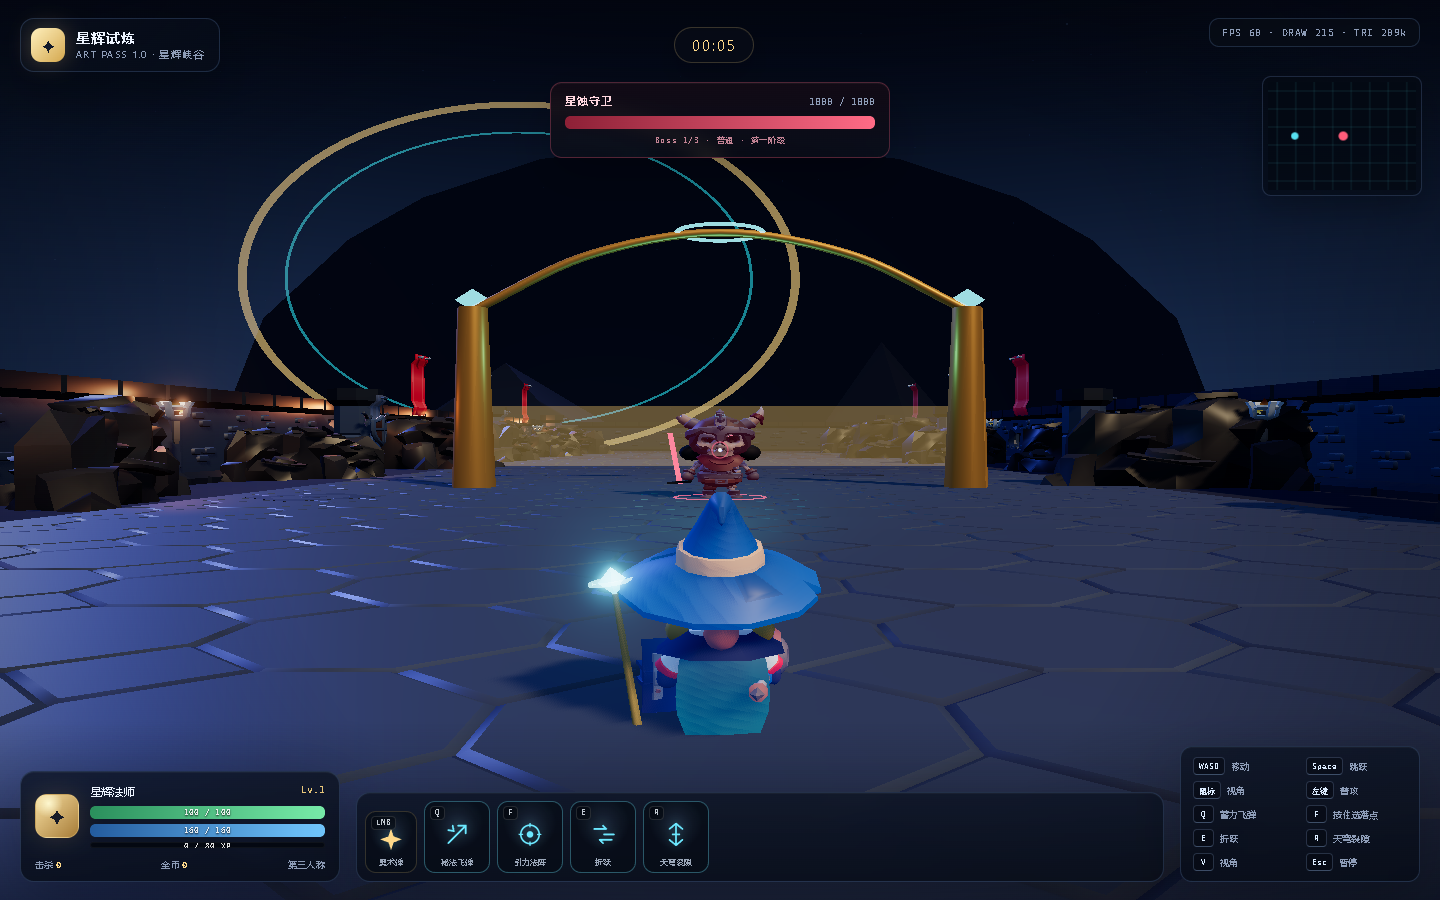
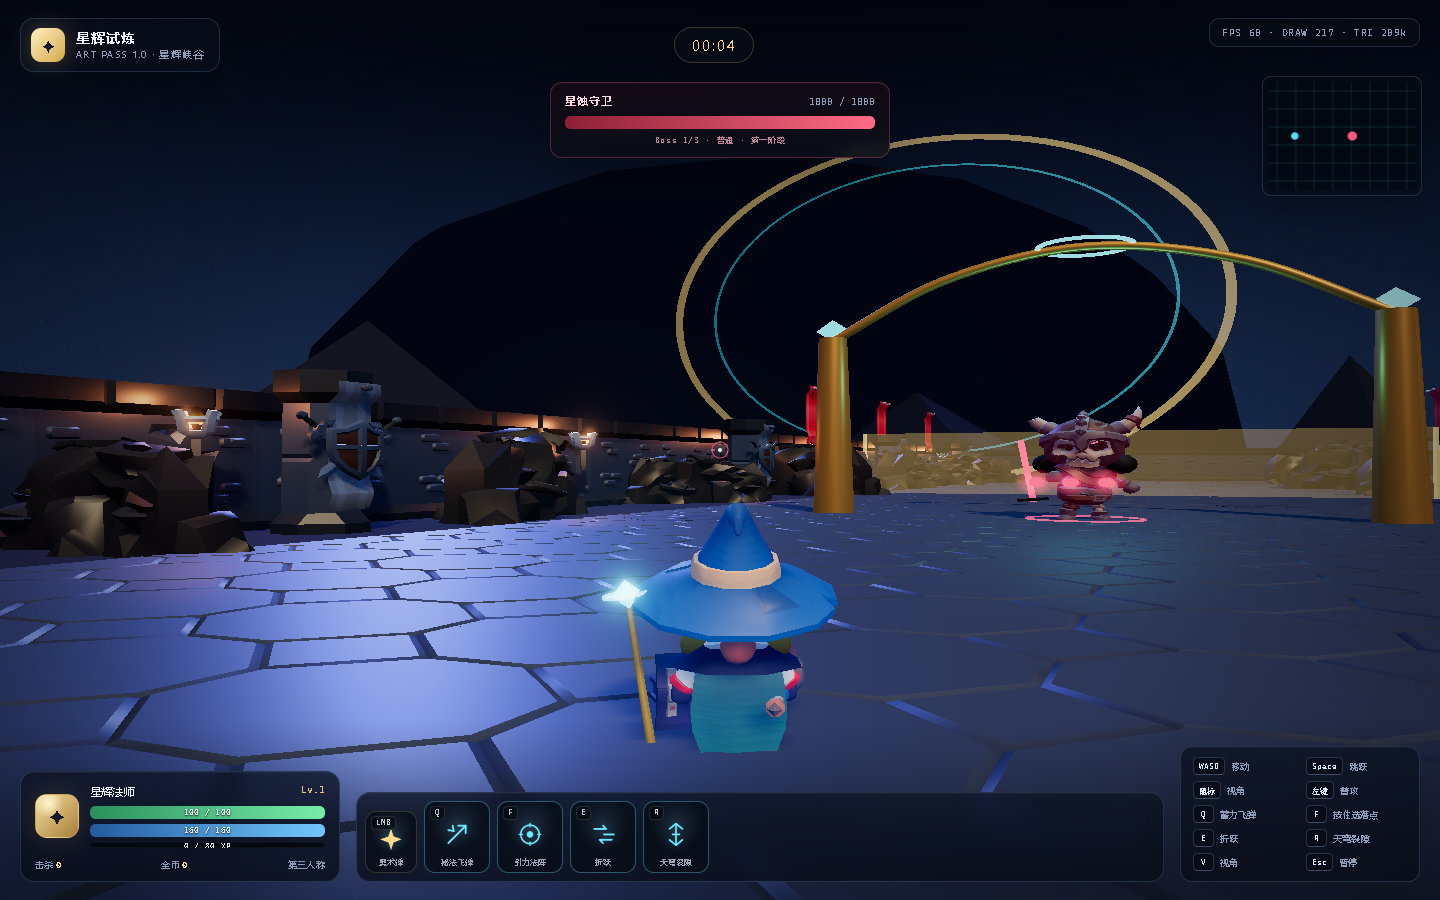
feat(art): scale up bosses and add combat animations

diff --git a/src/game/Game.ts b/src/game/Game.ts
@@ -109,6 +109,8 @@ export class Game {
   private input!: InputController;
   private mageActionLock = 0;
   private enemyActionLock = 0;
+  private readonly lastEnemyPosition = new THREE.Vector3();
+  private enemyShotCount = 0;
   private isMoving = false;
 
   private viewmodel!: THREE.Group;
@@ -402,6 +404,7 @@ export class Game {
       spawns.dummySpawn.z,
     );
     this.scene.add(this.enemyView.root);
+    this.lastEnemyPosition.copy(this.dummy.position);
 
     this.projectiles = new ProjectileSystem(this.scene);
     this.effects = new Effects(this.scene);
@@ -601,7 +604,7 @@ export class Game {
     const isColossus = kind === 'colossus';
     const view = new CharacterView(
       this.assets.skeleton,
-      isColossus ? 1.45 : isVoid ? 1.08 : 1.15,
+      isColossus ? 1.95 : isVoid ? 1.42 : 1.5,
       isColossus ? 0xffc36b : isVoid ? 0xc99bff : 0x8a91a8,
       isColossus ? 0x7a3d00 : isVoid ? 0x4f1688 : 0x4b0b1f,
     );
@@ -891,6 +894,11 @@ export class Game {
       speed: 12 * this.difficultyConfig.projectileSpeedScale,
     });
     this.effects.muzzle(origin, 0xff5c7a);
+    this.enemyShotCount += 1;
+    this.playEnemyAction(
+      this.enemyShotCount % 2 === 0 ? '1H_Ranged_Shoot' : 'Spellcast_Shoot',
+      0.55,
+    );
     this.audio.enemyShoot();
   }
 
@@ -1019,6 +1027,9 @@ export class Game {
     this.bossIntroRemaining = duration;
     this.bossTransitionRemaining = 0;
     this.bossInvulnerableTime = duration;
+    if (this.enemyView && this.dummy.alive) {
+      this.playEnemyAction('Skeletons_Awaken_Standing', duration);
+    }
     this.hud.showBossIntro(
       this.bossDisplayName,
       this.gameMode === 'lane'
@@ -1491,8 +1502,22 @@ export class Game {
         ),
       );
     }
+    const enemyMoved =
+      horizontalDistance(this.dummy.position, this.lastEnemyPosition) > 0.004;
+    this.lastEnemyPosition.copy(this.dummy.position);
     if (this.enemyActionLock <= 0 && this.dummy.alive) {
-      this.enemyView.play('Idle', 0.18);
+      const distanceToPlayer = horizontalDistance(
+        this.dummy.position,
+        this.player.position,
+      );
+      this.enemyView.play(
+        enemyMoved
+          ? 'Walking_A'
+          : distanceToPlayer < 18
+            ? 'Idle_Combat'
+            : 'Idle',
+        0.18,
+      );
     }
     this.enemyView.update(dt);
     this.updateBossAdds(dt);
@@ -2182,7 +2207,20 @@ export class Game {
     );
   }
 
+  private playEnemyAction(name: string, duration: number): void {
+    if (!this.enemyView.hasAction(name)) return;
+    this.enemyView.play(name, 0.08, true);
+    this.enemyActionLock = Math.max(this.enemyActionLock, duration);
+  }
+
   private onBossAttack(attack: BossAttackEvent): void {
+    const action =
+      attack.type === 'slam'
+        ? '2H_Melee_Attack_Chop'
+        : attack.type === 'shockwave'
+          ? '2H_Melee_Attack_Spin'
+          : 'Spellcast_Raise';
+    this.playEnemyAction(action, attack.delay + 0.35);
     const color =
       attack.type === 'slam'
         ? 0xff5c7a
@@ -2237,14 +2275,18 @@ export class Game {
       });
     }
     this.effects.muzzle(origin, 0xff5c7a);
-    this.enemyView.play('Spellcast_Shoot', 0.06, true);
-    this.enemyActionLock = 0.6;
+    this.enemyShotCount += 1;
+    this.playEnemyAction(
+      this.enemyShotCount % 2 === 0 ? 'Spellcast_Shoot' : '1H_Ranged_Shoot',
+      0.65,
+    );
     this.audio.enemyShoot();
   }
 
   private onBossPhaseTwo(): void {
     this.bossTransitionRemaining = 1.2;
     this.bossInvulnerableTime = 1.2;
+    this.playEnemyAction('Taunt_Longer', 1.2);
     this.hud.showBossIntro(
       '第二阶段',
       this.dummy.variant === 'void'
@@ -2289,6 +2331,7 @@ export class Game {
 
   private onBossSummon(): void {
     if (this.gameMode === 'lane') return;
+    this.playEnemyAction('Spellcast_Summon', 0.8);
     const extra = this.bossModifier === 'split' ? 1 : 0;
     if (this.dummy.isVoid) {
       this.hud.showToast('虚空术士召唤镜像', 1100);
@@ -2474,6 +2517,11 @@ export class Game {
       speed: 13 * this.difficultyConfig.projectileSpeedScale,
     });
     this.effects.muzzle(shot.origin, 0xff5c7a);
+    this.enemyShotCount += 1;
+    this.playEnemyAction(
+      this.enemyShotCount % 2 === 0 ? '1H_Ranged_Shoot' : 'Spellcast_Shoot',
+      0.55,
+    );
     this.audio.enemyShoot();
   }
 

diff --git a/README.md b/README.md
@@ -57,7 +57,7 @@ npm run preview
 - 等级成长：1-20 级，提升伤害、攻速、冷却缩减、生命/法力
 - Boss Rush v0.9.0a：**三个 Boss**——星蚀守卫（1800）→ 虚空术士（2200）→ 星环巨像（2400）
 - 新增「中路试炼」原型：小兵波次/交战、金币/经验、6 件装备商店、防御塔/水晶、轻量英雄 AI
-- Art Pass 2.0：小兵换用 KayKit 角色模型，玩家法杖/肩甲/光环，敌方冠饰/大剑/光环
+- Art Pass 2.0：小兵换用 KayKit 角色模型，玩家法杖/肩甲/光环，敌方更大体型 + 冠饰/大剑/光环 + 更多骨骼动作
 - 难度：简单 / 普通 / 困难；每局随机 Boss 词缀
 - 每次击败 Boss 后 3 选 1 星辉强化（10 个强化池，普通/稀有/史诗）
 - 强化联动、Build 摘要、结算评分、本地最高分

diff --git a/docs/P8-美术打磨.md b/docs/P8-美术打磨.md
@@ -33,18 +33,21 @@
 
 ### 敌方英雄
 
+- 模型缩放提升：星蚀 1.5 / 虚空 1.42 / 星环 1.95
 - 增加黑金尖刺冠
 - 增加胸甲核心
 - 增加肩甲
 - 增加破碎大剑
 - 增加对应 Boss 颜色的脚下光环
 - 星蚀 / 虚空 / 星环三种颜色区分
+- 新增动作：登场复活、行走、战斗待机、重拳、旋转冲击、远程射击、阶段嘲讽、召唤
+- 动作使用 KayKit 原生骨骼动画，不额外增加贴图
 
 ## 性能
 
 1440×900：
 
-- Boss Rush：60 FPS / 215 draw calls / 208k tris
+- Boss Rush：60 FPS / 213 draw calls / 208k tris
 - 中路试炼：60 FPS / 353 draw calls / 279k tris
 
 1920×1080：
